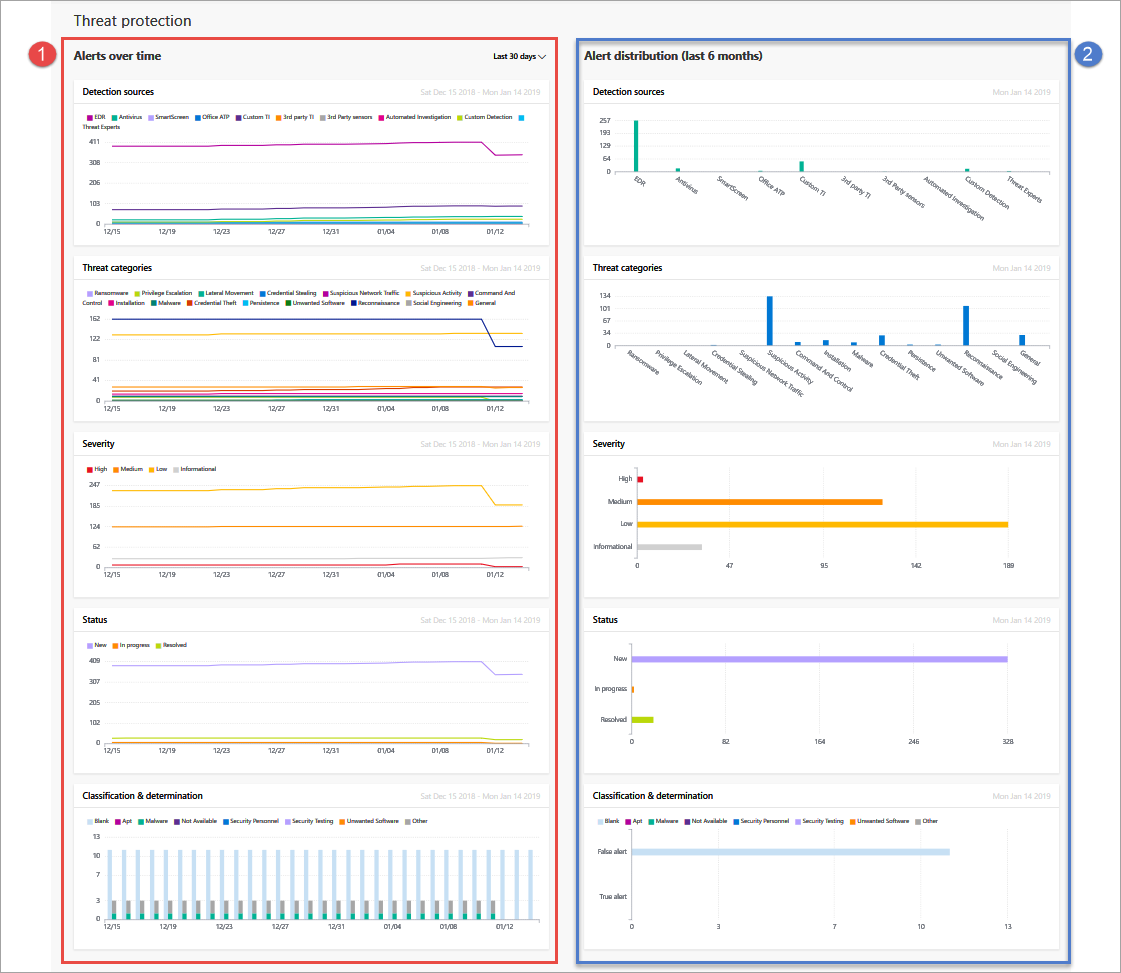
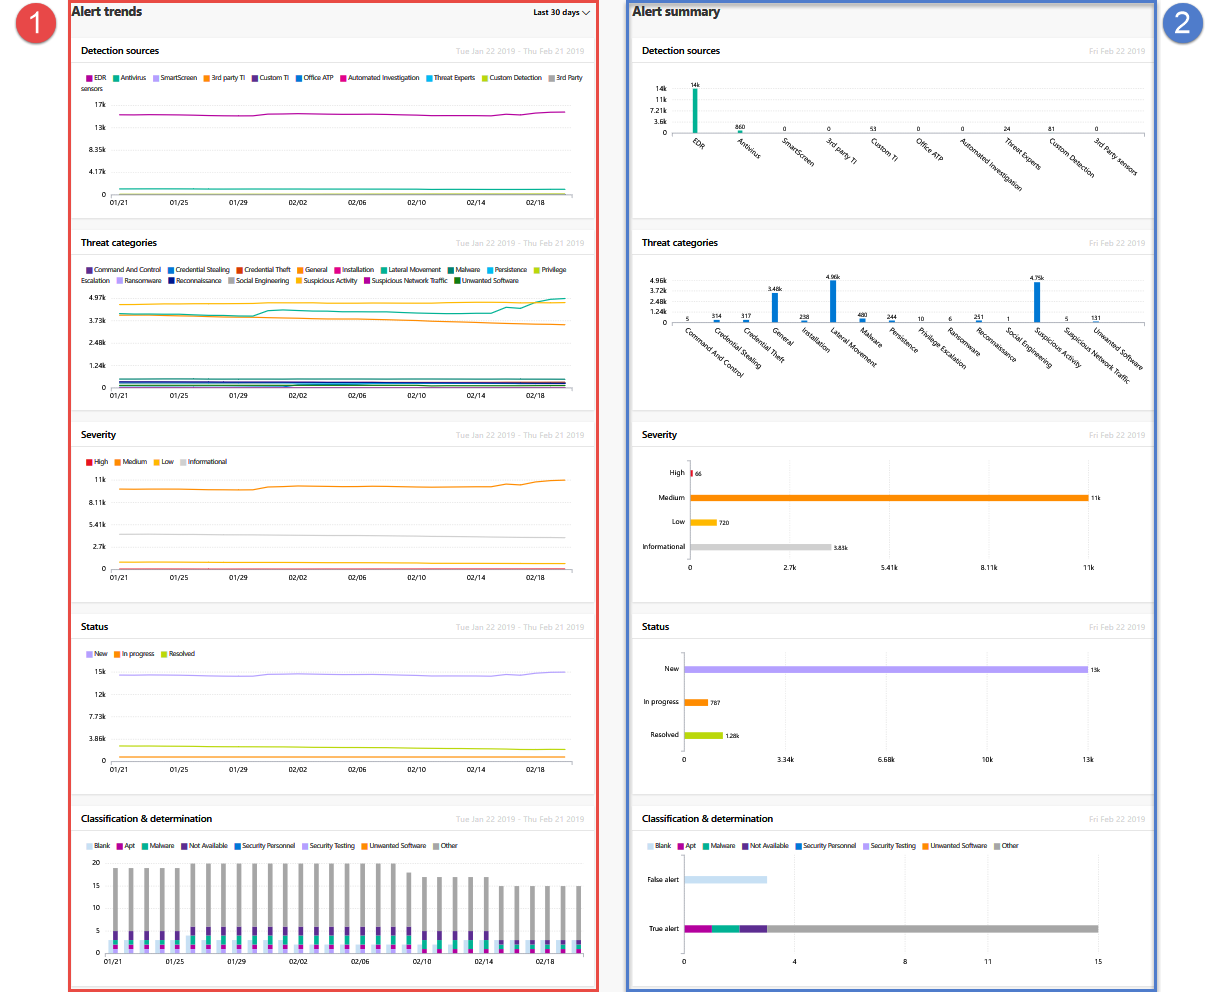
update image and column names

Changed region(s): [[0.0, 0.0, 1.0, 1.0], [0.1873, 0.6783, 0.281, 0.7091]]

diff --git a/windows/security/threat-protection/windows-defender-atp/threat-protection-reports-windows-defender-advanced-threat-protection.md b/windows/security/threat-protection/windows-defender-atp/threat-protection-reports-windows-defender-advanced-threat-protection.md
@@ -10,6 +10,10 @@ ms.sitesec: library
 ms.pagetype: security
 author: mjcaparas
 ms.localizationpriority: medium
+manager: dansimp
+audience: ITPro
+ms.collection: M365-security-compliance 
+ms.topic: article
 ---
 
 # Threat protection report in Windows Defender ATP
@@ -27,20 +31,20 @@ The dashboard is structured into two columns:
 
 Section | Description 
 :---|:---
-1 | Alerts over time
-2 | Alert aggregation / 6-month view
+1 | Alerts trends
+2 | Alert summary
 
 
-By default, the alerts over time column displays alert information from the 30-day period ending in the latest full day. To gain better perspective on trends occurring in your organization, you can fine-tune the reporting period by adjusting the time period shown. To adjust the time period, select a time range from the drop-down options:
+By default, the alert trends display alert information from the 30-day period ending in the latest full day. To gain better perspective on trends occurring in your organization, you can fine-tune the reporting period by adjusting the time period shown. To adjust the time period, select a time range from the drop-down options:
 
 - 30 days
 - 3 months
 - 6 months
 - Custom
 
-While the alerts over time column shows trending information alerts, the alert aggregation column shows alert information scoped to 6 months.
+While the alerts trends shows trending information alerts, the alert summary shows alert information scoped to 6 months.
 
- The alert aggregation column allows you to drill down to a particular alert queue with the corresponding filter applied to it. For example, clicking on the EDR bar in the Detection sources card will bring you the alerts queue with results showing only alerts generated from EDR detections. 
+ The alert summary allows you to drill down to a particular alert queue with the corresponding filter applied to it. For example, clicking on the EDR bar in the Detection sources card will bring you the alerts queue with results showing only alerts generated from EDR detections. 
 
 
 
